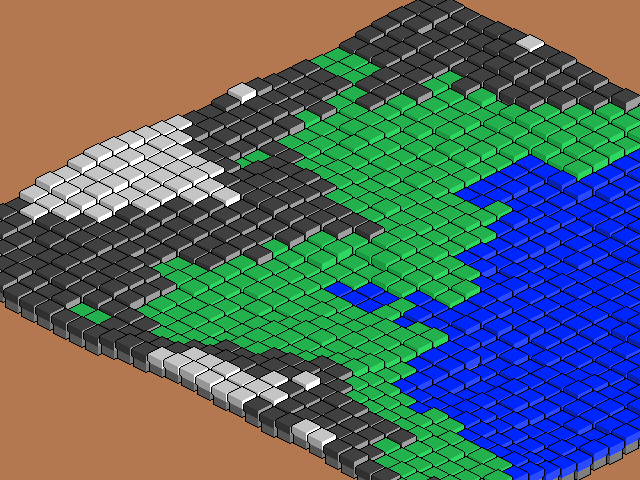
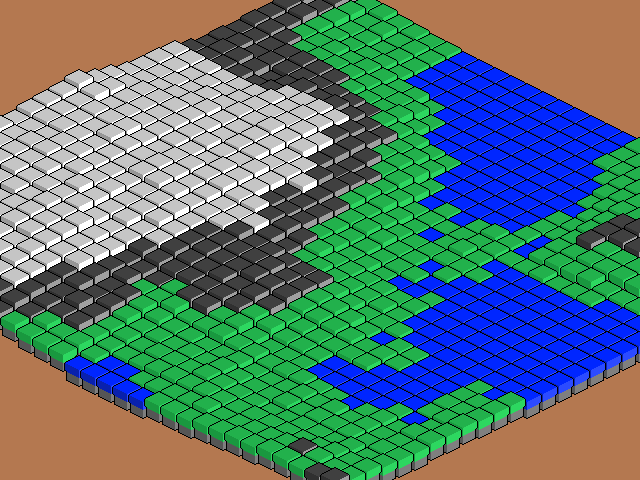
Removed elevation

diff --git a/Tile.py b/Tile.py
@@ -12,10 +12,12 @@ class Tile(object):
         elif self.pos.z > .8:
             self.image = handler.rock_tile_image
         elif self.pos.z < .4:
+            self.pos.z = .4
             self.image = handler.water_tile_image
         else:
             self.image = handler.base_tile_image
 
     def render(self, surface):
         surface.blit(self.image, 
-                self.handler.camera.offset + vec2((16*self.pos.x)-(16*self.pos.y), (8*self.pos.x)+(8*self.pos.y)-(32*self.pos.z)))
+                self.handler.camera.offset + vec2((16*self.pos.x)-(16*self.pos.y), (8*self.pos.x)+(8*self.pos.y)))#-(32*self.pos.z)))
+

diff --git a/Handler.py b/Handler.py
@@ -41,6 +41,7 @@ class Handler(object):
                 self.tiles.append(Tile.Tile(vec3(i,j,previous_offset), self))
 
         print max_height
+
     def render(self, surface):
         for TILE in self.tiles:
             TILE.render(surface)
